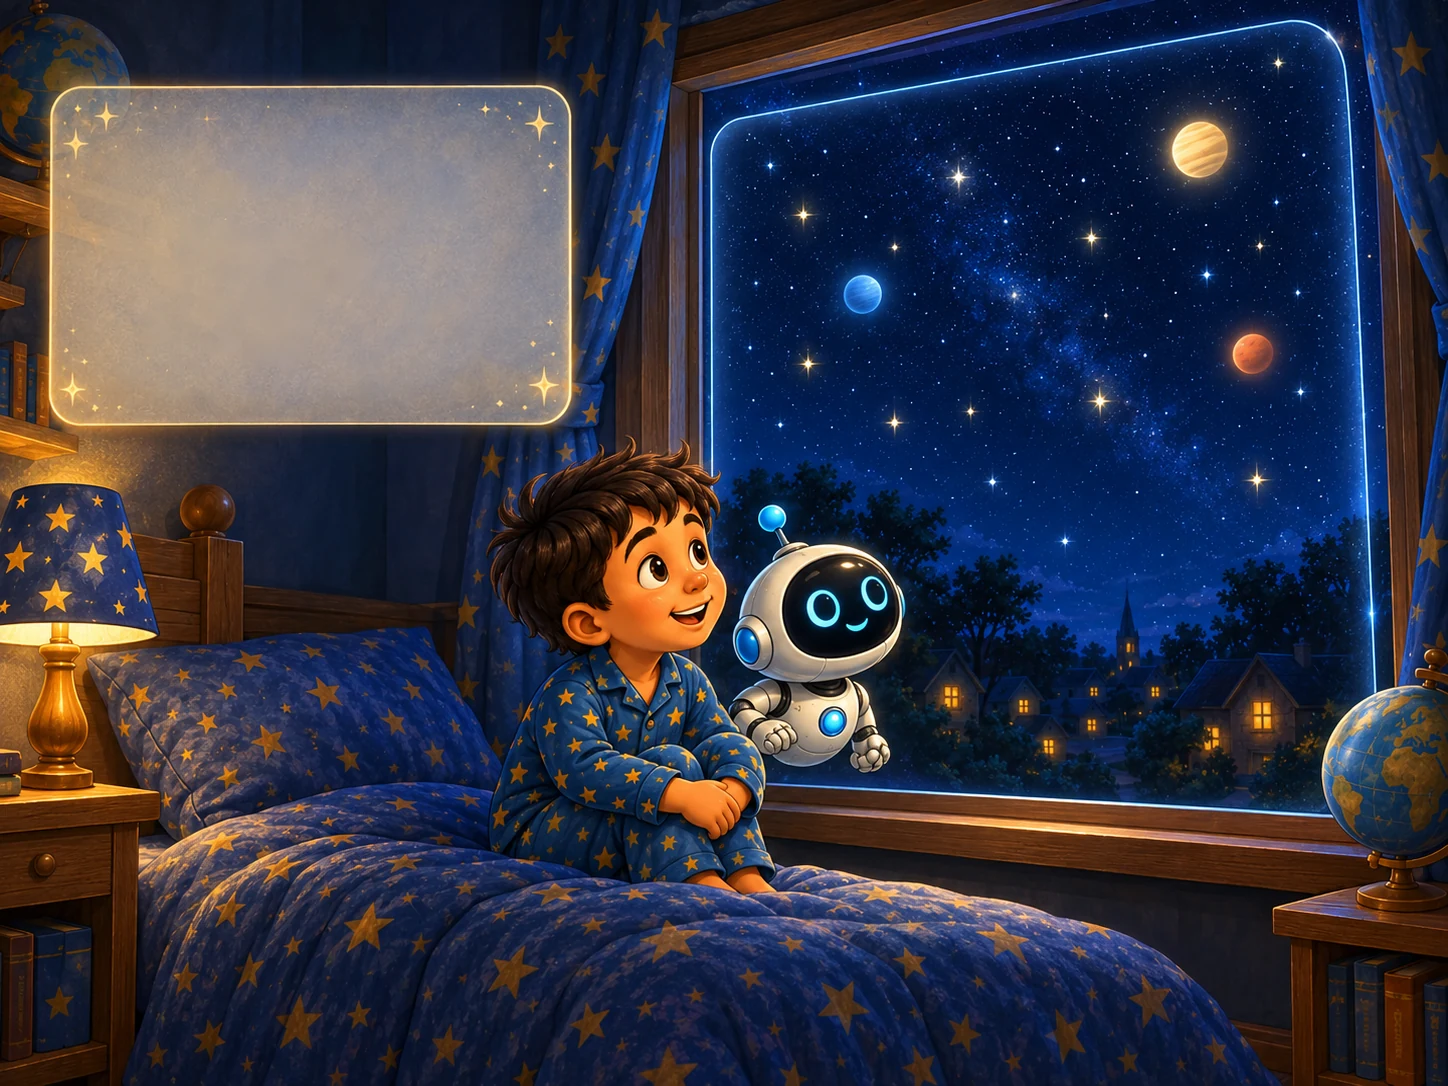
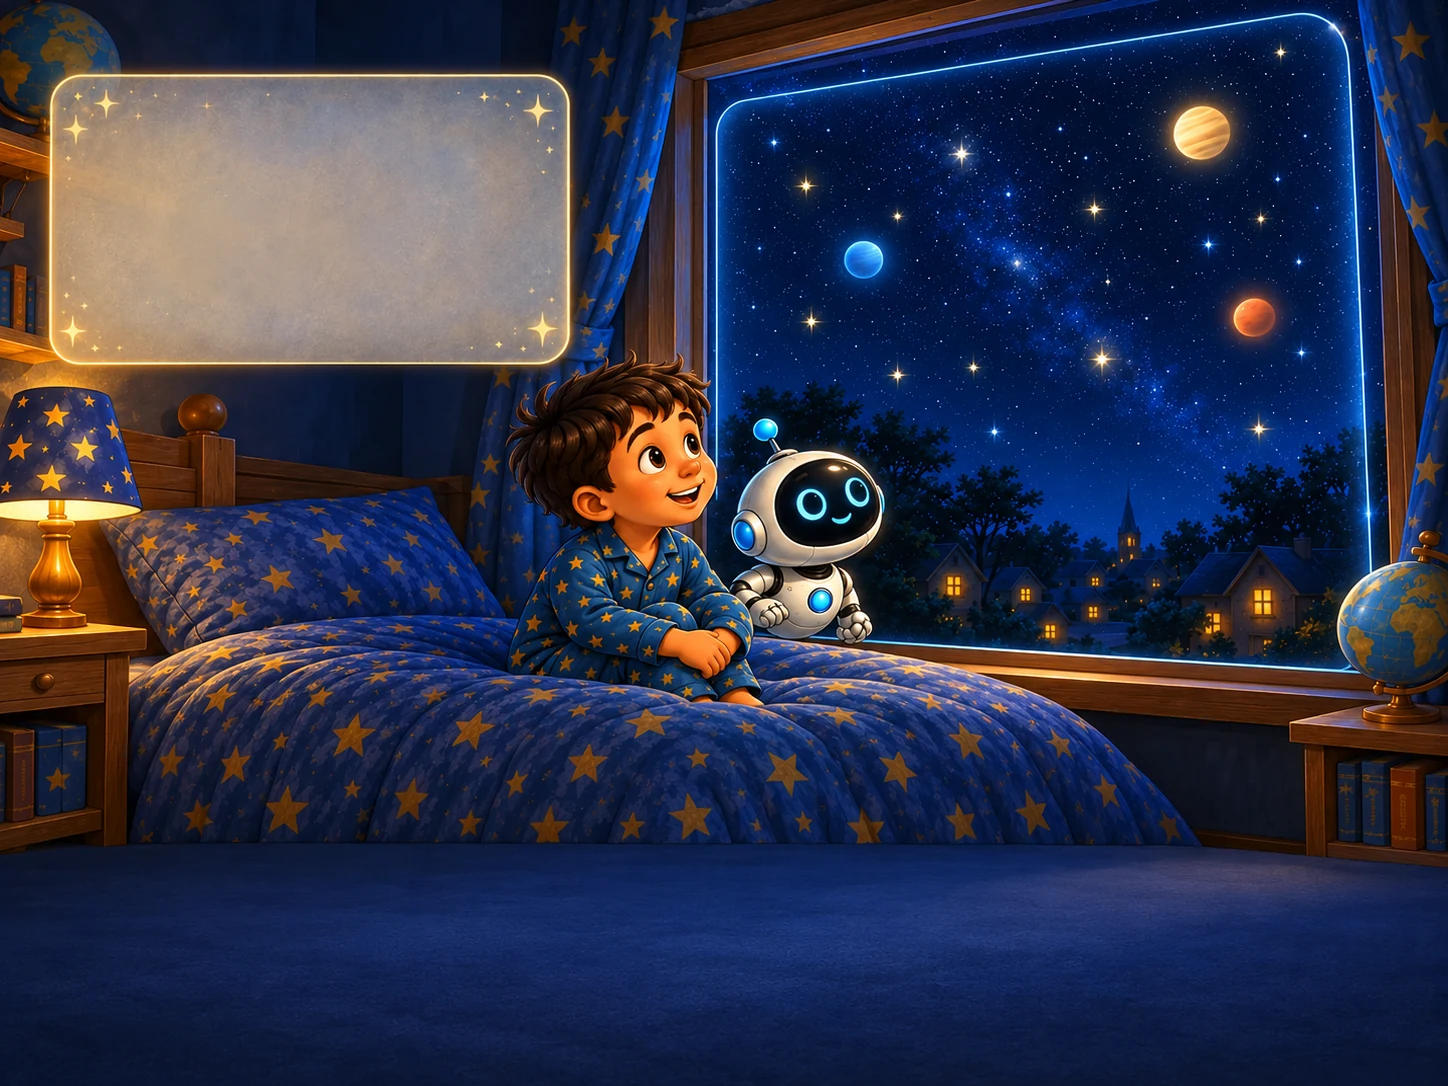
Test Hub: refresh test-apps/starlight-look,  — staged only, no service worker
Deployed by scripts/deploy-testhub.sh: source and destination checkouts verified
by scripts/assert-checkout.sh, staged tree proven worker-free, scope audited to
test-apps/ only. Production untouched.

diff --git a/test-apps/starlight-look/page-03.html b/test-apps/starlight-look/page-03.html
@@ -25,8 +25,15 @@ body.nostrip .art{top:0;left:0;width:100%}
 .index .idx{max-width:980px;margin:0 auto;padding:24px;color:#f4f0e0}.index{overflow:auto;height:auto;background:#0a1330}
 .index h1{margin:0 0 6px}.index .grid{display:grid;grid-template-columns:repeat(auto-fit,minmax(280px,1fr));gap:16px;margin-top:18px}
 .index .grid a{color:#fff;text-decoration:none;background:#14224a;border-radius:14px;overflow:hidden;border:2px solid #244b79}.index .grid img{width:100%;display:block;aspect-ratio:4/3;object-fit:cover}.index .grid span{display:block;padding:10px 12px;font-weight:700}
+
+body.full .art{top:0;left:0;width:100%;box-shadow:none}
+body.full .card{z-index:5}
+body.full .fact-box{height:18.5%;bottom:1.8%}
+body.full .fact-card span{font-size:clamp(11px,1.22cqw,16px)}
+.nav{opacity:.8}.nav .cur{background:#e8b14d;color:#152038}.nav .dis{opacity:.35;pointer-events:none}
+@media(max-aspect-ratio:1/1){body.full .art{top:6vh;width:100%}}
 </style></head>
-<body class=""><div class="bg" style="background-image:url(page-03.webp)"></div>
+<body class="full"><div class="bg" style="background-image:url(page-03.webp)"></div>
 <main class="stage"><div class="art"><img src="page-03.webp" alt="">
 <section class="card" style="left:1.8%;top:2.5%;width:42.5%;height:31%"><div class="fit"><h1>What is a star?<small>A hot ball that is winning a very long argument</small></h1>
 <p>A star is an enormous ball of <strong>hot glowing gas</strong>. Its own weight squeezes it inwards. Deep in the middle it is so squeezed and so hot that it makes new gas — and pours out light that pushes back outwards.</p>

diff --git a/test-apps/starlight-look/page-04.html b/test-apps/starlight-look/page-04.html
@@ -25,8 +25,15 @@ body.nostrip .art{top:0;left:0;width:100%}
 .index .idx{max-width:980px;margin:0 auto;padding:24px;color:#f4f0e0}.index{overflow:auto;height:auto;background:#0a1330}
 .index h1{margin:0 0 6px}.index .grid{display:grid;grid-template-columns:repeat(auto-fit,minmax(280px,1fr));gap:16px;margin-top:18px}
 .index .grid a{color:#fff;text-decoration:none;background:#14224a;border-radius:14px;overflow:hidden;border:2px solid #244b79}.index .grid img{width:100%;display:block;aspect-ratio:4/3;object-fit:cover}.index .grid span{display:block;padding:10px 12px;font-weight:700}
+
+body.full .art{top:0;left:0;width:100%;box-shadow:none}
+body.full .card{z-index:5}
+body.full .fact-box{height:18.5%;bottom:1.8%}
+body.full .fact-card span{font-size:clamp(11px,1.22cqw,16px)}
+.nav{opacity:.8}.nav .cur{background:#e8b14d;color:#152038}.nav .dis{opacity:.35;pointer-events:none}
+@media(max-aspect-ratio:1/1){body.full .art{top:6vh;width:100%}}
 </style></head>
-<body class=""><div class="bg" style="background-image:url(page-04.webp)"></div>
+<body class="full"><div class="bg" style="background-image:url(page-04.webp)"></div>
 <main class="stage"><div class="art"><img src="page-04.webp" alt="">
 <section class="card" style="left:1.5%;top:3%;width:28.5%;height:37%"><div class="fit"><h1>Some stars are enormous<small>And ours is a middle one</small></h1>
 <p>Bring the stars in one at a time and stand them side by side. Watch what happens to <strong>our Sun</strong> as the bigger ones arrive.</p>

diff --git a/test-apps/starlight-look/page-02.html b/test-apps/starlight-look/page-02.html
@@ -25,8 +25,15 @@ body.nostrip .art{top:0;left:0;width:100%}
 .index .idx{max-width:980px;margin:0 auto;padding:24px;color:#f4f0e0}.index{overflow:auto;height:auto;background:#0a1330}
 .index h1{margin:0 0 6px}.index .grid{display:grid;grid-template-columns:repeat(auto-fit,minmax(280px,1fr));gap:16px;margin-top:18px}
 .index .grid a{color:#fff;text-decoration:none;background:#14224a;border-radius:14px;overflow:hidden;border:2px solid #244b79}.index .grid img{width:100%;display:block;aspect-ratio:4/3;object-fit:cover}.index .grid span{display:block;padding:10px 12px;font-weight:700}
+
+body.full .art{top:0;left:0;width:100%;box-shadow:none}
+body.full .card{z-index:5}
+body.full .fact-box{height:18.5%;bottom:1.8%}
+body.full .fact-card span{font-size:clamp(11px,1.22cqw,16px)}
+.nav{opacity:.8}.nav .cur{background:#e8b14d;color:#152038}.nav .dis{opacity:.35;pointer-events:none}
+@media(max-aspect-ratio:1/1){body.full .art{top:6vh;width:100%}}
 </style></head>
-<body class=""><div class="bg" style="background-image:url(page-02.webp)"></div>
+<body class="full"><div class="bg" style="background-image:url(page-02.webp)"></div>
 <main class="stage"><div class="art"><img src="page-02.webp" alt="">
 <section class="card" style="left:1.8%;top:2.6%;width:62%;height:20.8%"><div class="fit"><h1>Our Sun is a star<small>It only looks different because it is close</small></h1>
 <p>Dot flies Ari away from the Sun. Not to another planet — <strong>much</strong> further than that.</p>

diff --git a/test-apps/starlight-look/page-01.html b/test-apps/starlight-look/page-01.html
@@ -25,8 +25,15 @@ body.nostrip .art{top:0;left:0;width:100%}
 .index .idx{max-width:980px;margin:0 auto;padding:24px;color:#f4f0e0}.index{overflow:auto;height:auto;background:#0a1330}
 .index h1{margin:0 0 6px}.index .grid{display:grid;grid-template-columns:repeat(auto-fit,minmax(280px,1fr));gap:16px;margin-top:18px}
 .index .grid a{color:#fff;text-decoration:none;background:#14224a;border-radius:14px;overflow:hidden;border:2px solid #244b79}.index .grid img{width:100%;display:block;aspect-ratio:4/3;object-fit:cover}.index .grid span{display:block;padding:10px 12px;font-weight:700}
+
+body.full .art{top:0;left:0;width:100%;box-shadow:none}
+body.full .card{z-index:5}
+body.full .fact-box{height:18.5%;bottom:1.8%}
+body.full .fact-card span{font-size:clamp(11px,1.22cqw,16px)}
+.nav{opacity:.8}.nav .cur{background:#e8b14d;color:#152038}.nav .dis{opacity:.35;pointer-events:none}
+@media(max-aspect-ratio:1/1){body.full .art{top:6vh;width:100%}}
 </style></head>
-<body class=""><div class="bg" style="background-image:url(page-01.webp)"></div>
+<body class="full"><div class="bg" style="background-image:url(page-01.webp)"></div>
 <main class="stage"><div class="art"><img src="page-01.webp" alt="">
 <section class="card" style="left:2.5%;top:5%;width:38%;height:36%"><div class="fit"><h1>The lights outside<small>What are all those lights?</small></h1>
 <p>Ari cannot sleep. The window is full of tiny lights, and tonight she knows <strong>some</strong> of them.</p>
